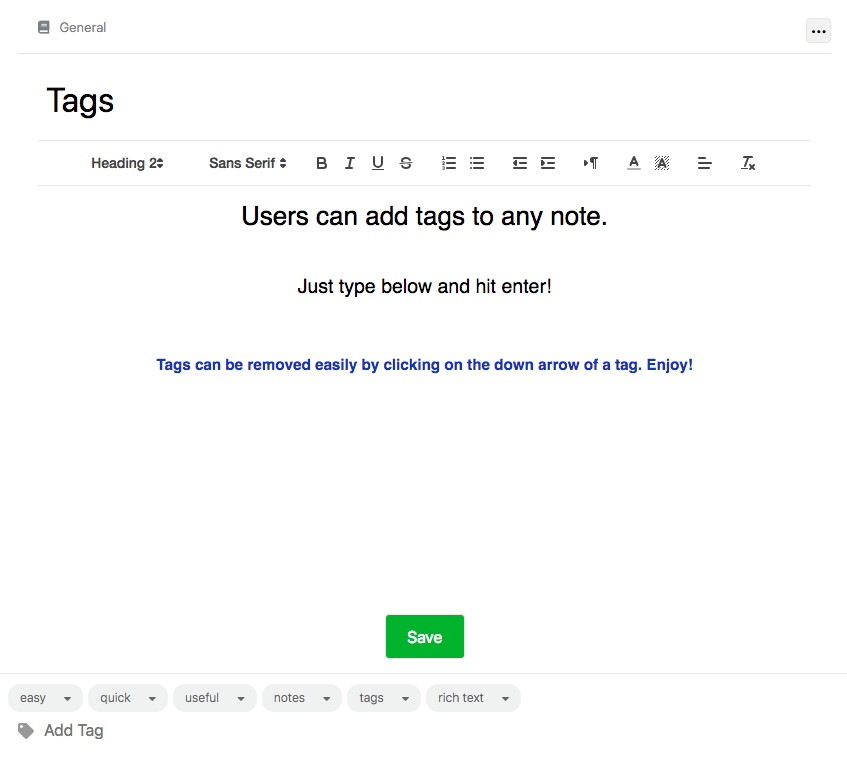
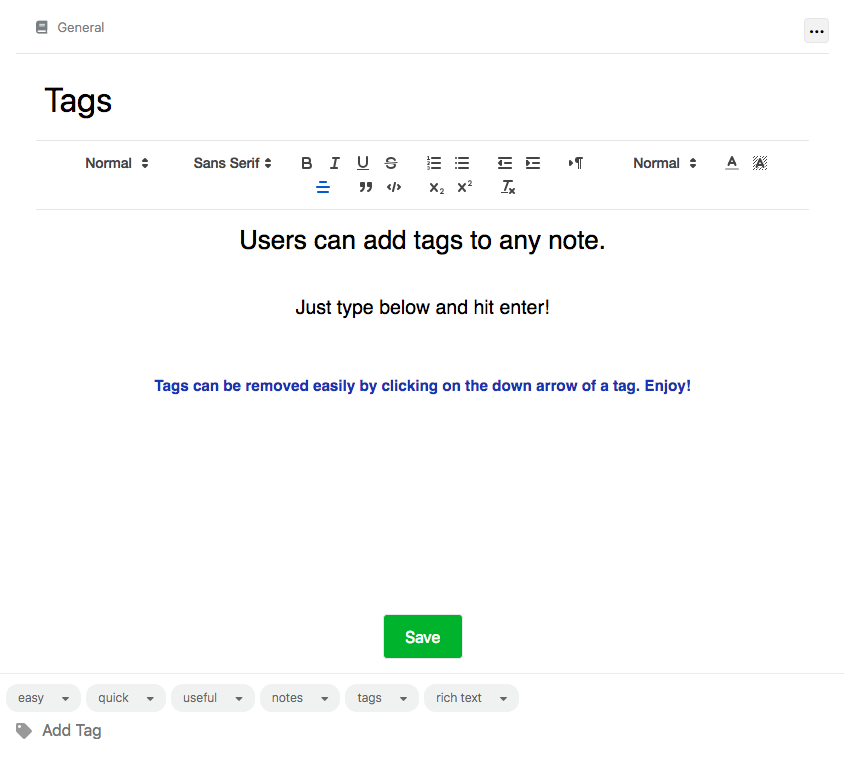
Edit ReadMe

diff --git a/frontend/components/notes/note_form.jsx b/frontend/components/notes/note_form.jsx
@@ -159,19 +159,21 @@ class NoteForm extends React.Component{
 
   render(){
     const toolbar = [
-      [{ 'header': [1, 2, 3, false] }],
+      [{ 'header': [1, 2, 3, 4, 5, 6, false] }],
       [{ 'font': [] }],
       ['bold', 'italic', 'underline', 'strike'],
       [{ 'list': 'ordered' }, { 'list': 'bullet' }],
       [{ 'indent': '-1' }, { 'indent': '+1' }],
       [{ 'direction': 'rtl' }],
 
-      // [{ 'size': ['small', false, 'large', 'huge'] }],
+      [{ 'size': ['small', false, 'large', 'huge'] }],
 
       [{ 'color': [] }, { 'background': [] }],
       [{ 'align': [] }],
 
-      ['clean'],
+      ['blockquote', 'code-block'],
+      [{ 'script': 'sub' }, { 'script': 'super' }],
+      ['clean']
     ];
     return (
       <div className="note-panel">
